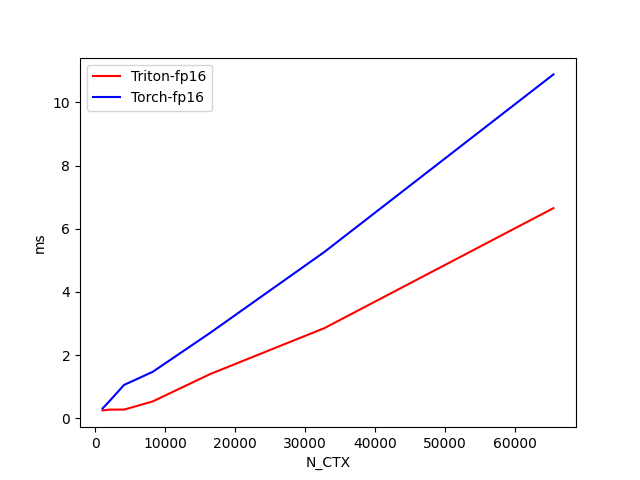
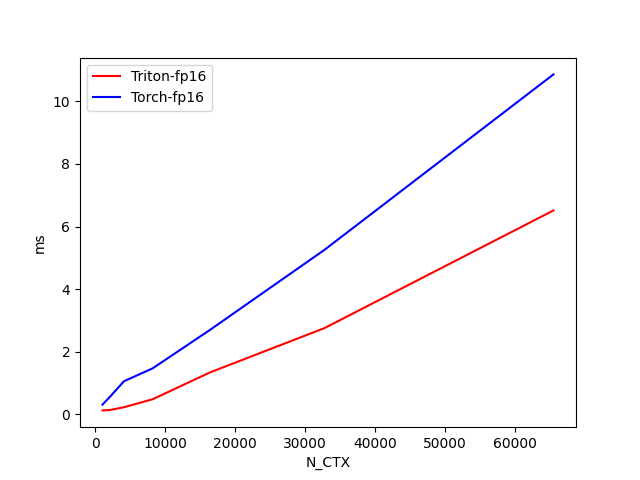
two kernels for predictor done

diff --git a/predictor_kernel/pooling_matmul.py b/predictor_kernel/pooling_matmul.py
@@ -29,7 +29,7 @@ def is_hip():
 configs = [
     triton.Config({'BLOCK_M': BM, 'BLOCK_N': BN}, num_stages=s, num_warps=w) \
     for BM in [64]\
-    for BN in [128]\
+    for BN in [64]\
     for s in ([1] if is_hip() else [3, 4, 7])\
     for w in [4, 8]\
 ]
@@ -52,7 +52,6 @@ class pooling_mm(torch.autograd.Function):
         K_HEADS = k.shape[1]
         HIDDEN_DIM = w.shape[-1]
         n_rep = N_HEADS // K_HEADS
-        # w n_head, hidden_dim, head_dim
         # shape constraints
         assert HEAD_DIM == w.shape[1]
         autotuned_config = max_pooling.configs[0]
@@ -60,7 +59,7 @@ class pooling_mm(torch.autograd.Function):
         q_down = torch.empty((BATCH, N_HEADS, N_CTX // BLOCK_M, HEAD_DIM), device=q.device, dtype=q.dtype)
         k_down = torch.empty((BATCH, K_HEADS, N_CTX // BLOCK_M, HIDDEN_DIM), device=q.device, dtype=q.dtype)
         n_d = triton.cdiv(q.shape[2], BLOCK_M)
-        o = torch.empty((BATCH, N_HEADS, n_d, w.shape[-1]), device=q.device, dtype=q.dtype)
+        o = torch.empty((BATCH, N_HEADS, n_d, n_d), device=q.device, dtype=q.dtype) - float("inf")
         extra_kern_args = {}
         # Tuning for AMD target
         if is_hip():
@@ -77,15 +76,171 @@ class pooling_mm(torch.autograd.Function):
             N_HEADS, N_CTX, HEAD_DIM, HIDDEN_DIM,
             **extra_kern_args,)
         
-        p = torch.matmul(q_down, w)
-        k = k_down[:, :, None, :, :].expand(BATCH, K_HEADS, N_HEADS // K_HEADS, N_CTX // BLOCK_M, HIDDEN_DIM).reshape(BATCH, N_HEADS, N_CTX // BLOCK_M, HIDDEN_DIM)
-        o = torch.matmul(p, k.transpose(-1, -2))
-        M = torch.tril(torch.ones((n_d, n_d), device=q.device))
-        o[:, :, M == 0] = float("-inf")
+        grid = lambda args: (triton.cdiv(n_d, args["BLOCK_M"]), BATCH * N_HEADS, 1)
+        
+        # qw = torch.matmul(q_down, w)
+        # matmul_kernel_causal[grid](
+        #     qw, k_down, o,
+        #     qw.stride(0), qw.stride(1), qw.stride(2), qw.stride(3),
+        #     k_down.stride(0), k_down.stride(1), k_down.stride(2), k_down.stride(3),
+        #     o.stride(0), o.stride(1), o.stride(2), o.stride(3),
+        #     N_HEADS, n_rep, n_d, HIDDEN_DIM,
+        #     **extra_kern_args,)
+        
+        fused_matmul[grid](
+            q_down, k_down, w, o, n_rep,
+            q_down.stride(0), q_down.stride(1), q_down.stride(2), q_down.stride(3),
+            k_down.stride(0), k_down.stride(1), k_down.stride(2), k_down.stride(3),
+            w.stride(0), w.stride(1), w.stride(2),
+            o.stride(0), o.stride(1), o.stride(2), o.stride(3),
+            N_HEADS, n_d, HEAD_DIM, HIDDEN_DIM, 
+            **extra_kern_args,)
+        
         nnz_id = torch.topk(o, 5, dim=-1).indices
 
         return nnz_id
-   
+
+@triton.autotune(list(filter(keep, configs)), key=["n_d", "HIDDEN_DIM"])
+@triton.jit
+def matmul_kernel_causal(
+        a_ptr, b_ptr, c_ptr,
+        stride_az, stride_ah, stride_am, stride_ak,  #
+        stride_bz, stride_bh, stride_bk, stride_bn,  #
+        stride_cz, stride_ch, stride_cm, stride_cn,  #
+        H, n_rep,
+        n_d: tl.constexpr,
+        HIDDEN_DIM: tl.constexpr,
+        BLOCK_M: tl.constexpr, 
+        BLOCK_N: tl.constexpr, 
+):
+    start_m = tl.program_id(axis=0)
+    off_hz = tl.program_id(axis=1)
+    off_z = off_hz // H
+    off_h = off_hz % H
+    off_bh = off_h // n_rep
+    a_offset = off_z.to(tl.int64) * stride_az + off_h.to(tl.int64) * stride_ah
+    b_offset = off_z.to(tl.int64) * stride_bz + off_bh.to(tl.int64) * stride_bh
+    c_offset = off_z.to(tl.int64) * stride_cz + off_h.to(tl.int64) * stride_ch
+
+    a_block_ptr = tl.make_block_ptr(
+        base = a_ptr + a_offset,
+        shape=(BLOCK_M, HIDDEN_DIM),
+        strides=(stride_am, stride_ak),
+        offsets=(start_m * BLOCK_M, 0),
+        block_shape=(BLOCK_M, HIDDEN_DIM),
+        order=(0, 1)
+    )
+    b_block_ptr = tl.make_block_ptr(
+        base = b_ptr + b_offset,
+        shape=(HIDDEN_DIM, n_d),
+        strides=(stride_bn, stride_bk),
+        offsets=(0, 0),
+        block_shape=(HIDDEN_DIM, BLOCK_N),
+        order=(0, 1)
+    )
+    c_block_ptr = tl.make_block_ptr(
+        base = c_ptr + c_offset,
+        shape=(BLOCK_M, n_d),
+        strides=(stride_cm, stride_cn),
+        offsets=(start_m * BLOCK_M, 0),
+        block_shape=(BLOCK_M, BLOCK_N),
+        order=(0, 1)
+    )
+
+    offs_m = start_m * BLOCK_M + tl.arange(0, BLOCK_M)
+    offs_n = tl.arange(0, BLOCK_N)
+    lo, hi = 0, (start_m + 1) * BLOCK_M
+
+    for start_n in range(lo, hi, BLOCK_N):
+        q = tl.load(a_block_ptr)
+        k = tl.load(b_block_ptr)
+        qk = tl.dot(q, k)
+        mask = offs_m[:, None] >= (start_n + offs_n[None, :])
+        qk = qk + tl.where(mask, 0, -1.0e6)
+        qk = qk.to(tl.float16)
+        tl.store(c_block_ptr, qk)
+        b_block_ptr = tl.advance(b_block_ptr, (0, BLOCK_N))
+        c_block_ptr = tl.advance(c_block_ptr, (0, BLOCK_N))  
+
+
+@triton.autotune(list(filter(keep, configs)), key=["n_d", "HEAD_DIM"])
+@triton.jit
+def fused_matmul(Q, K, W, O, n_rep,  #
+                stride_qz, stride_qh, stride_qm, stride_qk,  #
+                stride_kz, stride_kh, stride_km, stride_kn,  #
+                stride_wh, stride_wk, stride_wn,  #
+                stride_oz, stride_oh, stride_om, stride_on,  #
+                H, 
+                n_d: tl.constexpr,  #
+                HEAD_DIM: tl.constexpr,  #
+                HIDDEN_DIM: tl.constexpr,  #
+                BLOCK_M: tl.constexpr,  #
+                BLOCK_N: tl.constexpr,  #
+                ):
+    start_m = tl.program_id(0)
+    off_hz = tl.program_id(1)
+    off_z = off_hz // H
+    off_h = off_hz % H
+    off_kh = off_h // n_rep
+    q_offset = off_z.to(tl.int64) * stride_qz + off_h.to(tl.int64) * stride_qh
+    k_offset = off_z.to(tl.int64) * stride_kz + off_kh.to(tl.int64) * stride_kh
+    w_offset = off_h.to(tl.int64) * stride_wh
+    o_offset = off_z.to(tl.int64) * stride_oz + off_h.to(tl.int64) * stride_oh
+    # block pointers
+    Q_block_ptr = tl.make_block_ptr(
+        base=Q + q_offset,
+        shape=(n_d, HEAD_DIM),
+        strides=(stride_qm, stride_qk),
+        offsets=(start_m * BLOCK_M, 0),
+        block_shape=(BLOCK_M, HEAD_DIM),
+        order=(0, 1),
+    )
+    W_block_ptr = tl.make_block_ptr(
+        base=W + w_offset,
+        shape=(HEAD_DIM, HIDDEN_DIM),
+        strides=(stride_wk, stride_wn),
+        offsets=(0, 0),
+        block_shape=(HEAD_DIM, BLOCK_N),
+        order=(0, 1),
+    )
+    K_block_ptr = tl.make_block_ptr(
+        base=K + k_offset,
+        shape=(HIDDEN_DIM, n_d),
+        strides=(stride_kn, stride_km),
+        offsets=(0, 0),
+        block_shape=(BLOCK_N, BLOCK_M),
+        order=(1, 0),
+    )
+    O_block_ptr = tl.make_block_ptr(
+        base=O + o_offset,
+        shape=(BLOCK_M, n_d),
+        strides=(stride_om, stride_on),
+        offsets=(start_m * BLOCK_M, 0),
+        block_shape=(BLOCK_M, BLOCK_M),
+        order=(0, 1),
+    )
+    q = tl.load(Q_block_ptr)
+    lo, hi = 0, (start_m + 1) * BLOCK_M
+    for start_k in range(lo, hi, BLOCK_M):
+        acc = tl.zeros((BLOCK_M, BLOCK_M), dtype=tl.float16)
+        for start_n in range(0, HIDDEN_DIM, BLOCK_N):
+            
+            w = tl.load(tl.advance(W_block_ptr, (0, start_n)))
+            qw = tl.dot(q, w).to(tl.float16)
+            k = tl.load(tl.advance(K_block_ptr, (start_n, 0)))
+            o = tl.dot(qw, k).to(tl.float16)
+            acc = acc + o
+        offs_m = start_m * BLOCK_M + tl.arange(0, BLOCK_M)
+        offs_n = start_k + tl.arange(0, BLOCK_M)
+        mask = offs_m[:, None] >= offs_n[None, :]
+        acc = acc + tl.where(mask, 0, -1.0e6)
+        acc = acc.to(tl.float16)
+        # print(acc.shape)
+        tl.store(O_block_ptr, acc)
+        K_block_ptr = tl.advance(K_block_ptr, (0, BLOCK_M))
+        O_block_ptr = tl.advance(O_block_ptr, (0, BLOCK_M))
+
+
 @triton.autotune(list(filter(keep, configs)), key=["N_CTX", "HEAD_DIM"])
 @triton.jit
 def max_pooling(Q, K, Q_down, K_down, n_rep,  #
@@ -143,7 +298,7 @@ def max_pooling(Q, K, Q_down, K_down, n_rep,  #
         order=(0, 1),
     )
     q = tl.load(Q_block_ptr)
-    q = tl.sum(q, 0).to(tl.float16)[None, :] / BLOCK_M
+    q = tl.sum(q, 0)[None, :] / BLOCK_M
     tl.store(Q_down_block_ptr, q.to(Q_down.type.element_ty))
 
     # K Dowmsample
